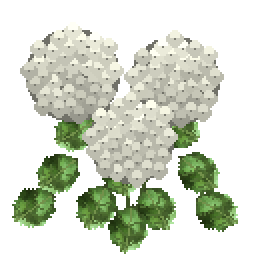
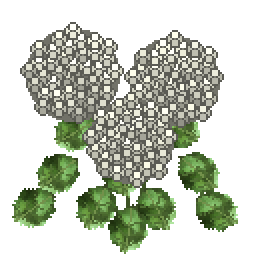
Add isolated catalogue asset preparation and per-project palettes; refine hydrangeas

Changed region(s): [[0.0625, 0.0625, 0.875, 0.75]]

diff --git a/tools/map-editor/index.html b/tools/map-editor/index.html
@@ -2,4 +2,4 @@
 <header><strong>Atelier maps</strong><select id="maps" aria-label="Map"></select><input id="name" aria-label="Nom du projet" placeholder="Nom du projet"><button id="save">Sauvegarder</button><button id="export">Exporter</button><button id="test">Tester en jeu</button><button id="apply">Appliquer localement</button><span id="dirty"></span></header>
 <main><aside><details open><summary>PNG et sols personnalisés</summary><button id="import-png">Importer un PNG…</button><input id="png-file" type="file" accept="image/png,.png" hidden><label>Texture du sol<select id="floor-texture" aria-label="Texture du sol"></select></label><label>Hauteur Z<input id="floor-height" aria-label="Hauteur du sol" type="number" step="0.1" value="0"></label><label>Carreau (mètres)<input id="floor-tile" aria-label="Taille du carreau" type="number" min="0.1" step="0.1" value="2"></label><div class="floor-buttons"><button id="draw-floor">Dessiner un sol</button><button id="draw-rectangle">Rectangle</button><button id="finish-floor" disabled>Terminer</button><button id="cancel-floor" disabled>Annuler</button></div><p class="small">Polygonal : cliquez les sommets puis Terminer. Rectangle : cliquez deux coins opposés.</p></details><h2>Palette</h2><input id="filter" placeholder="Chercher un asset…"><div id="palette"></div><h2>Catalogue des jeux</h2><input id="library-search" placeholder="Jeu / modèle / map…"><select id="library-game" aria-label="Jeu du catalogue"><option value="">Tous les jeux</option><option>FC</option><option>SC</option><option>Third</option><option>Azure</option></select><select id="library-kind" aria-label="Type d’asset"><option value="">Modèles et sprites</option><option value="model" selected>Modèles</option><option value="sprite">Sprites</option></select><div id="library-list"></div><p class="small">Cliquez un modèle pour le prévisualiser sur la map, puis choisissez un objet isolé ci-dessous.</p><button id="library-open">Ouvrir la grande vue de sélection</button><h2>Objets de la map</h2><input id="objects-filter" placeholder="Chercher un objet…"><div id="objects"></div></aside>
 <section id="workspace"><nav><button data-mode="translate" class="active">Déplacer</button><button data-mode="rotate">Pivoter</button><button data-mode="scale">Échelle</button><button id="undo">↶</button><button id="redo">↷</button><button id="duplicate">Dupliquer</button><button id="delete">Supprimer</button><button id="focus">Centrer</button><button id="add-light">Ajouter une lumière</button><label><input id="motion-preview" type="checkbox">Animer les plateformes</label><button id="overview">Vue d’ensemble</button><button id="preview">Aperçu sans outils</button><label><input id="walls" type="checkbox" checked>Murs</label><label><input id="lighting" type="checkbox">Lumière du jeu</label></nav><div id="viewport"></div><div id="hint">Clic : sélectionner · Glisser : déplacer au sol · Clic droit : caméra · Molette : zoom</div></section>
-<aside id="inspector"><h2>Objet sélectionné</h2><label>Nom de l’objet<input id="object-name" aria-label="Nom de l’objet" disabled></label><p id="object-id"></p><fieldset id="light-fields" hidden><legend>Lumière dynamique</legend><label>Couleur<input id="light-color" type="color" value="#ffb566"></label><label>Intensité<input id="light-strength" type="number" min="0" max="10" step="0.1" value="1"></label><label>Portée<input id="light-radius" type="number" min="0.1" max="50" step="0.5" value="5"></label><label><input id="light-flicker" type="checkbox">Vacillante</label></fieldset><label>Rôle <select id="role" disabled><option value="floor">Sol jouable</option><option value="wall">Mur / barrière</option><option value="obstacle">Obstacle</option><option value="decoration">Décor</option><option value="marker">Repère</option></select></label><fieldset id="motion-fields" hidden><legend>Plateforme mouvante</legend><label><input id="motion-enabled" type="checkbox">Aller-retour horizontal</label><div id="motion-settings" hidden><label>Déplacement X (m)<input id="motion-x" type="number" step="0.25" value="5"></label><label>Déplacement Y (m)<input id="motion-y" type="number" step="0.25" value="0"></label><label>Vitesse (m/s)<input id="motion-speed" type="number" min="0.1" step="0.1" value="1.6"></label><label>Largeur jouable carrée (m)<input id="motion-width" type="number" min="0.2" step="0.1" value="2"></label><label>Pause à chaque extrémité (s)<input id="motion-dwell" type="number" min="0" step="0.1" value="1"></label><p>La position de l’objet définit le départ. Le trait bleu indique le trajet. Ajustez la largeur à la surface du modèle.</p></div></fieldset><button id="edit-model" disabled>Modifier les morceaux du modèle…</button><div id="fields"></div><label><input id="uniform" type="checkbox" checked>Échelle uniforme</label><label><input id="snap" type="checkbox">Aimantation 0,25</label><p class="axes"><b>X</b> / <b>Y</b> : au sol · <b>Z</b> : hauteur</p><button id="cancel-placement" hidden>Annuler la pose</button><p id="source"></p></aside></main><button id="preview-back" hidden>Revenir à l’éditeur</button><footer><span id="status">Chargement…</span></footer><dialog id="library-dialog" aria-label="Sélection des modèles"><header><strong id="library-title">Sélection du modèle</strong><span id="library-count">0 morceau sélectionné</span><button id="library-close">Fermer</button></header><div class="library-body"><div id="library-preview" hidden></div><aside><p>Clic gauche : sélectionner un morceau.<br>Ctrl + clic gauche : ajouter ou retirer.<br>Glisser : tourner · Molette : zoomer.</p><fieldset id="model-edit-tools" hidden><legend>Modifier l’objet posé</legend><label>Découpage<select id="edit-granularity"><option value="islands">Morceaux connectés</option><option value="surfaces">Surfaces / textures</option><option value="faces">Faces (triangles)</option></select></label><button id="edit-remove">Supprimer les morceaux sélectionnés</button><label>Couleur<input id="edit-color" type="color" value="#d95a44"></label><label>Intensité (%)<input id="edit-strength" type="number" min="0" max="100" step="5" value="100"></label><button id="edit-recolor">Recolorer la sélection</button><p>La transparence et les détails des textures sont conservés. Appliquer modifie uniquement cet objet.</p></fieldset><button id="library-combine" disabled>Utiliser la sélection</button><button id="library-clear">Tout désélectionner</button><label><input id="library-groups" type="checkbox">Afficher aussi les groupes d’origine</label><div id="library-parts"></div></aside></div></dialog><script type="module" src="bundle.js"></script></body></html>
+<aside id="inspector"><h2>Objet sélectionné</h2><label>Nom de l’objet<input id="object-name" aria-label="Nom de l’objet" disabled></label><p id="object-id"></p><fieldset id="light-fields" hidden><legend>Lumière dynamique</legend><label>Couleur<input id="light-color" type="color" value="#ffb566"></label><label>Intensité<input id="light-strength" type="number" min="0" max="10" step="0.1" value="1"></label><label>Portée<input id="light-radius" type="number" min="0.1" max="50" step="0.5" value="5"></label><label><input id="light-flicker" type="checkbox">Vacillante</label></fieldset><label>Rôle <select id="role" disabled><option value="floor">Sol jouable</option><option value="wall">Mur / barrière</option><option value="obstacle">Obstacle</option><option value="decoration">Décor</option><option value="marker">Repère</option></select></label><fieldset id="motion-fields" hidden><legend>Plateforme mouvante</legend><label><input id="motion-enabled" type="checkbox">Aller-retour horizontal</label><div id="motion-settings" hidden><label>Déplacement X (m)<input id="motion-x" type="number" step="0.25" value="5"></label><label>Déplacement Y (m)<input id="motion-y" type="number" step="0.25" value="0"></label><label>Vitesse (m/s)<input id="motion-speed" type="number" min="0.1" step="0.1" value="1.6"></label><label>Largeur jouable carrée (m)<input id="motion-width" type="number" min="0.2" step="0.1" value="2"></label><label>Pause à chaque extrémité (s)<input id="motion-dwell" type="number" min="0" step="0.1" value="1"></label><p>La position de l’objet définit le départ. Le trait bleu indique le trajet. Ajustez la largeur à la surface du modèle.</p></div></fieldset><button id="edit-model" disabled>Modifier les morceaux du modèle…</button><div id="fields"></div><label><input id="uniform" type="checkbox" checked>Échelle uniforme</label><label><input id="snap" type="checkbox">Aimantation 0,25</label><p class="axes"><b>X</b> / <b>Y</b> : au sol · <b>Z</b> : hauteur</p><button id="cancel-placement" hidden>Annuler la pose</button><p id="source"></p></aside></main><button id="preview-back" hidden>Revenir à l’éditeur</button><footer><span id="status">Chargement…</span></footer><dialog id="library-dialog" aria-label="Sélection des modèles"><header><strong id="library-title">Sélection du modèle</strong><span id="library-count">0 morceau sélectionné</span><button id="library-close">Fermer</button></header><div class="library-body"><div id="library-preview" hidden></div><aside><p>Clic gauche : sélectionner un morceau.<br>Ctrl + clic gauche : ajouter ou retirer.<br>Glisser : tourner · Molette : zoomer.</p><fieldset id="model-edit-tools" hidden><legend>Modifier l’objet posé</legend><label>Découpage<select id="edit-granularity"><option value="islands">Morceaux connectés</option><option value="surfaces">Surfaces / textures</option><option value="faces">Faces (triangles)</option></select></label><button id="edit-remove">Supprimer les morceaux sélectionnés</button><label>Couleur<input id="edit-color" type="color" value="#d95a44"></label><label>Intensité (%)<input id="edit-strength" type="number" min="0" max="100" step="5" value="100"></label><button id="edit-recolor">Recolorer la sélection</button><p>La transparence et les détails des textures sont conservés. Les assets d’origine restent inchangés.</p></fieldset><fieldset id="asset-destination" hidden><legend>Asset préparé</legend><label>Nom de l’asset<input id="asset-label" maxlength="160" value="Sélection du catalogue"></label><button id="asset-frame">Recentrer la vue</button><label><input id="asset-spin" type="checkbox">Rotation automatique</label><label>Palette de destination<select id="asset-map"></select></label><p id="asset-result" role="status"></p></fieldset><button id="library-clear">Tout désélectionner</button><label><input id="library-groups" type="checkbox">Afficher aussi les groupes d’origine</label><div id="library-parts"></div></aside></div><footer class="library-actions"><button id="asset-back" hidden>Retour à la sélection du modèle</button><button id="asset-save-palette" hidden>Ajouter à la palette choisie</button><button id="library-combine" disabled>Préparer la sélection</button></footer></dialog><script type="module" src="bundle.js"></script></body></html>

diff --git a/tools/map-editor/style.css b/tools/map-editor/style.css
@@ -13,3 +13,7 @@ details{margin:4px 0 14px}summary{cursor:pointer;font-weight:600;margin-bottom:1
 #model-edit-tools input[type=color]{height:42px;min-height:42px;padding:3px}#model-edit-tools input,#model-edit-tools select{max-width:100%}
 
 body.immersive>header,body.immersive>footer,body.immersive main>aside,body.immersive #workspace>nav{display:none}body.immersive #workspace{height:100vh}#preview-back{position:fixed;top:14px;left:14px;z-index:20;background:#181c23b8}
+
+#asset-destination input:not([type=checkbox]),#asset-destination select{width:100%;max-width:100%}#asset-result{color:#a9e6bf;font-size:12px;white-space:normal;overflow-wrap:anywhere}
+
+#library-dialog .library-actions{display:flex;gap:8px;justify-content:flex-end;flex-shrink:0;border-top:1px solid #46536b}#library-dialog .library-actions button{width:auto}#library-combine{background:#405c7f}#asset-result:empty{display:none}

diff --git a/tools/map-editor/lake-textures.py b/tools/map-editor/lake-textures.py
@@ -40,14 +40,15 @@ def build():
             for i in range(40):
                 a=i*2.39996;rr=(r-2)*math.sqrt(i/40)
                 x=round(cx+math.cos(a)*rr);y=round(cy+math.sin(a)*rr)
-                shade=.68+.25*(1-(y-(cy-r))/(2*r)) + rng.uniform(-.09,.09)
+                shade=.68+.25*(1-(y-(cy-r))/(2*r)) + rng.uniform(-.14,.14)
                 # Low-resolution light/shadow patches, like the native plant atlas.
                 col=tuple(min(255,round(v*shade)) for v in tint)+(255,)
-                hi=tuple(min(255,round(v*min(1.12,shade+.15))) for v in tint)+(255,)
-                draw.ellipse((x-4,y-2,x,y+2),fill=col)
-                draw.ellipse((x,y-2,x+4,y+2),fill=col)
-                draw.ellipse((x-2,y-4,x+2,y),fill=hi)
-                draw.ellipse((x-2,y,x+2,y+4),fill=col)
+                hi=tuple(min(255,round(v*min(1.12,shade+.23))) for v in tint)+(255,)
+                dark=tuple(round(v*.38) for v in tint)+(255,)
+                draw.ellipse((x-4,y-2,x,y+2),fill=col,outline=dark)
+                draw.ellipse((x,y-2,x+4,y+2),fill=col,outline=dark)
+                draw.ellipse((x-2,y-4,x+2,y),fill=hi,outline=dark)
+                draw.ellipse((x-2,y,x+2,y+4),fill=col,outline=dark)
                 draw.point((x,y),fill=tuple(round(v*.52) for v in tint)+(255,))
         head=im.crop((11,12,62,63)).resize((128,128),Image.Resampling.NEAREST)
         head.save(OUT/f'bouquet-{name}.png')

diff --git a/tools/map-editor/README.md b/tools/map-editor/README.md
@@ -46,3 +46,7 @@ Pour modifier un modèle déjà posé, sélectionner l’objet puis **Modifier l
 **Prototype du lac rouge** : `http://127.0.0.1:3040/?project=lac-rouge-prototype` ouvre un étage indépendant dans l’atelier. Lac rouge à deux couches animées natives, îlot central, deux ponts, berges en pierre d’Esmelas et massifs blancs/violets lumineux. Les hortensias suivent les photos de référence : larges feuilles natives retouchées et bouquets ronds à petites fleurs dessinées à la main en pixels. Les têtes sont des volumes facettés simples (48 triangles chacune), lisibles depuis le dessus, avec un halo blanc diffus indépendant de l’éclairage. Atlas en 256 × 256, textures des têtes et du halo en 128 × 128 ; aucun modèle généré par IA. Les parois utilisent les panneaux natifs d’Esmelas ; le plan de sol est assemblé manuellement avec sa texture de pierre. L’eau n’est pas une surface jouable. Aucun ennemi. Les cinq étages existants restent inchangés ; le prototype utilise le contexte `hallow1` uniquement pour son test local. **Tester en jeu** utilise l’export de ce projet. **Appliquer localement** est désactivé pour ce prototype afin de préserver le premier étage local.
 
 `node tools/map-editor/lake-prototype.cjs` régénère la source et l’export à partir de la source native `hallow1`, avec Python/Pillow pour les palettes et les fleurs. Les projets sauvegardés restent prioritaires sur la source régénérée. Les objets sont nommés et modifiables séparément ; les lumières sont partagées par groupes de fleurs. **Aperçu sans outils** masque les panneaux et les repères pour juger l’ambiance ; **Revenir à l’éditeur** les rétablit. Le paramètre `preview=1` ouvre directement cet aperçu.
+
+**Préparer un asset depuis le catalogue** : Ctrl+clic pour choisir plusieurs morceaux, puis **Préparer la sélection**. La même grande fenêtre affiche uniquement cette sélection, centrée avec un pivot d’orbite au milieu du modèle. Glisser pour tourner autour, clic droit pour déplacer le centre de vue, molette pour zoomer ; **Recentrer la vue** rétablit le cadrage et **Rotation automatique** permet d’en faire le tour. Le découpage, la suppression et la recoloration fonctionnent aussi sur ce brouillon. **Retour à la sélection du modèle** retrouve le modèle complet et la sélection initiale.
+
+Donner un nom au résultat, puis **Poser sur la map actuelle**, ou choisir une map existante et **Ajouter à la palette choisie**. Les boutons de destination restent au bas de la fenêtre. Une palette n’ajoute pas d’objet au layout ; elle est conservée séparément dans `E:/dev/sky-activity-tools/map-editor/palettes/<nom-du-projet>.json`, y compris après une sauvegarde ou un Ctrl+Z du layout. Charger le projet concerné retrouve ses assets préparés dans la palette. Les textures recolorées restent dans le cache local et sont exportées lorsque l’asset est effectivement posé.
